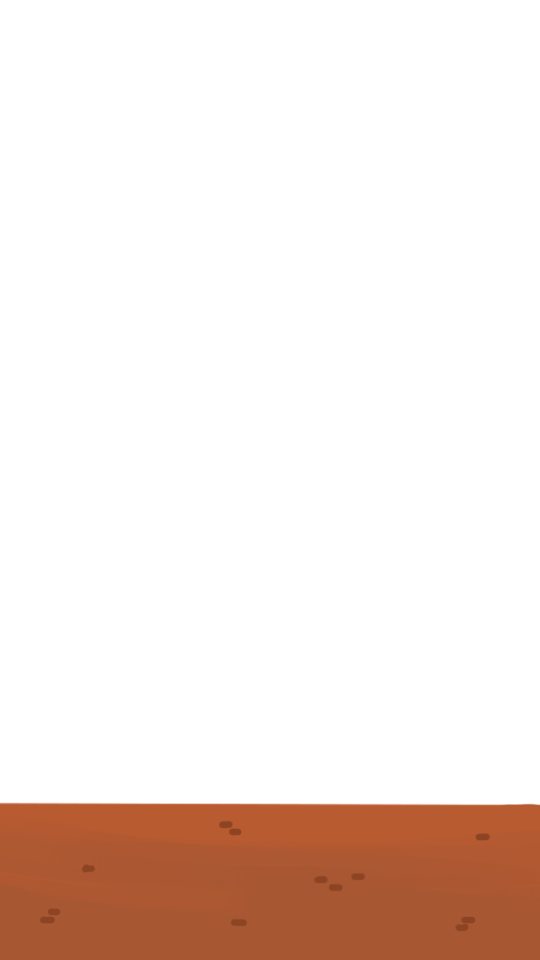
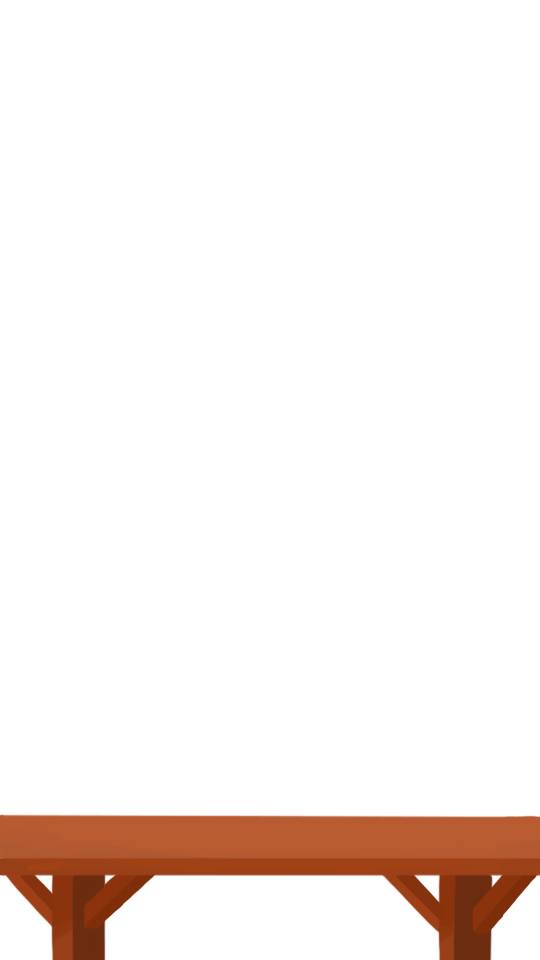
new play scene assets, update end anim

Changed region(s): [[0.0, 0.8125, 1.0, 1.0]]

diff --git a/src/scenes/play.js b/src/scenes/play.js
@@ -26,7 +26,7 @@ class Play extends Phaser.Scene {
 
         // Player setup
         this.player = this.physics.add.sprite(gameCanvasConfig.getCenter().x, 0, "idle").setOrigin(0.5);
-        this.player.y = gameCanvasConfig.height + gameCanvasConfig.offset.y - this.player.displayHeight / 2 - UIDistance;
+        this.player.y = gameCanvasConfig.height + gameCanvasConfig.offset.y - this.player.displayHeight / 2 - UIDistance - 70;
         this.player.setCollideWorldBounds(true);
         this.player.setDepth(1);
 

diff --git a/src/scenes/end.js b/src/scenes/end.js
@@ -45,7 +45,7 @@ class End extends Phaser.Scene {
             fixedWidth: 100
         }
         // add to screen
-        scoreEnd = this.add.text(316, 647, this.score, scoreConfig);
+        scoreEnd = this.add.text(350, 615, this.score, scoreConfig);
 
         console.log("End");
         keyDown.on("down", () => {
